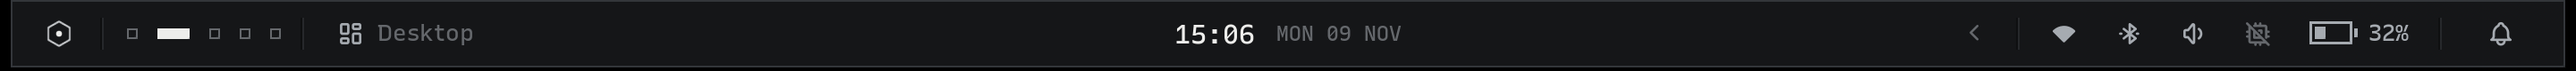
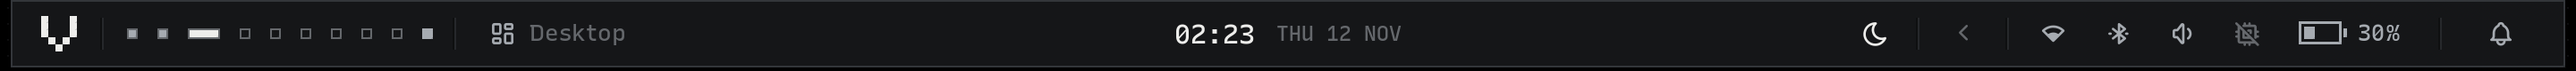
README: new screenshots of the bar, desktop and every panel
Bar, desktop, control center and session panel retaken with the pixel
V, battery, meters and the Windows tile. Adds Wi-Fi (network names
blurred), notification drawer, Bluetooth, audio, graphics, emoji picker,
window switcher and wallpaper picker.

diff --git a/README.md b/README.md
@@ -2,7 +2,7 @@
 
 A monochrome Hyprland desktop for CachyOS: flat, square and graphite grey, built on [Noctalia](https://github.com/noctalia-dev/noctalia-shell) with one custom plugin that replaces the bar, panels and launcher.
 
-![The desktop with the launcher open](docs/screenshots/desktop.png)
+![The desktop](docs/screenshots/desktop.png)
 
 ![The bar](docs/screenshots/bar.png)
 
@@ -66,9 +66,22 @@ A monochrome Hyprland desktop for CachyOS: flat, square and graphite grey, built
     <td><img src="docs/screenshots/panel-shortcuts.png" alt="Keyboard shortcuts"></td>
     <td><img src="docs/screenshots/panel-power.png" alt="Battery and power profile"><br><br><img src="docs/screenshots/panel-session.png" alt="Session actions"></td>
   </tr>
+  <tr>
+    <td><img src="docs/screenshots/panel-wifi.png" alt="Wi-Fi, with network names blurred"></td>
+    <td><img src="docs/screenshots/panel-drawer.png" alt="Notification drawer"></td>
+  </tr>
+  <tr>
+    <td><img src="docs/screenshots/panel-bluetooth.png" alt="Bluetooth"></td>
+    <td><img src="docs/screenshots/panel-audio.png" alt="Audio output and input"><br><br><img src="docs/screenshots/panel-gpu.png" alt="Graphics mode"></td>
+  </tr>
+  <tr>
+    <td><img src="docs/screenshots/panel-emoji.png" alt="Emoji picker"></td>
+    <td><img src="docs/screenshots/panel-switcher.png" alt="Window switcher"></td>
+  </tr>
+  <tr>
+    <td colspan="2"><img src="docs/screenshots/panel-wallpaper.png" alt="Wallpaper picker"></td>
+  </tr>
 </table>
-
-Also included: Wi-Fi, Bluetooth, audio, GPU mode, emoji picker, window switcher, wallpaper picker and a notification drawer.
 
 ## The rest of the rice
 
